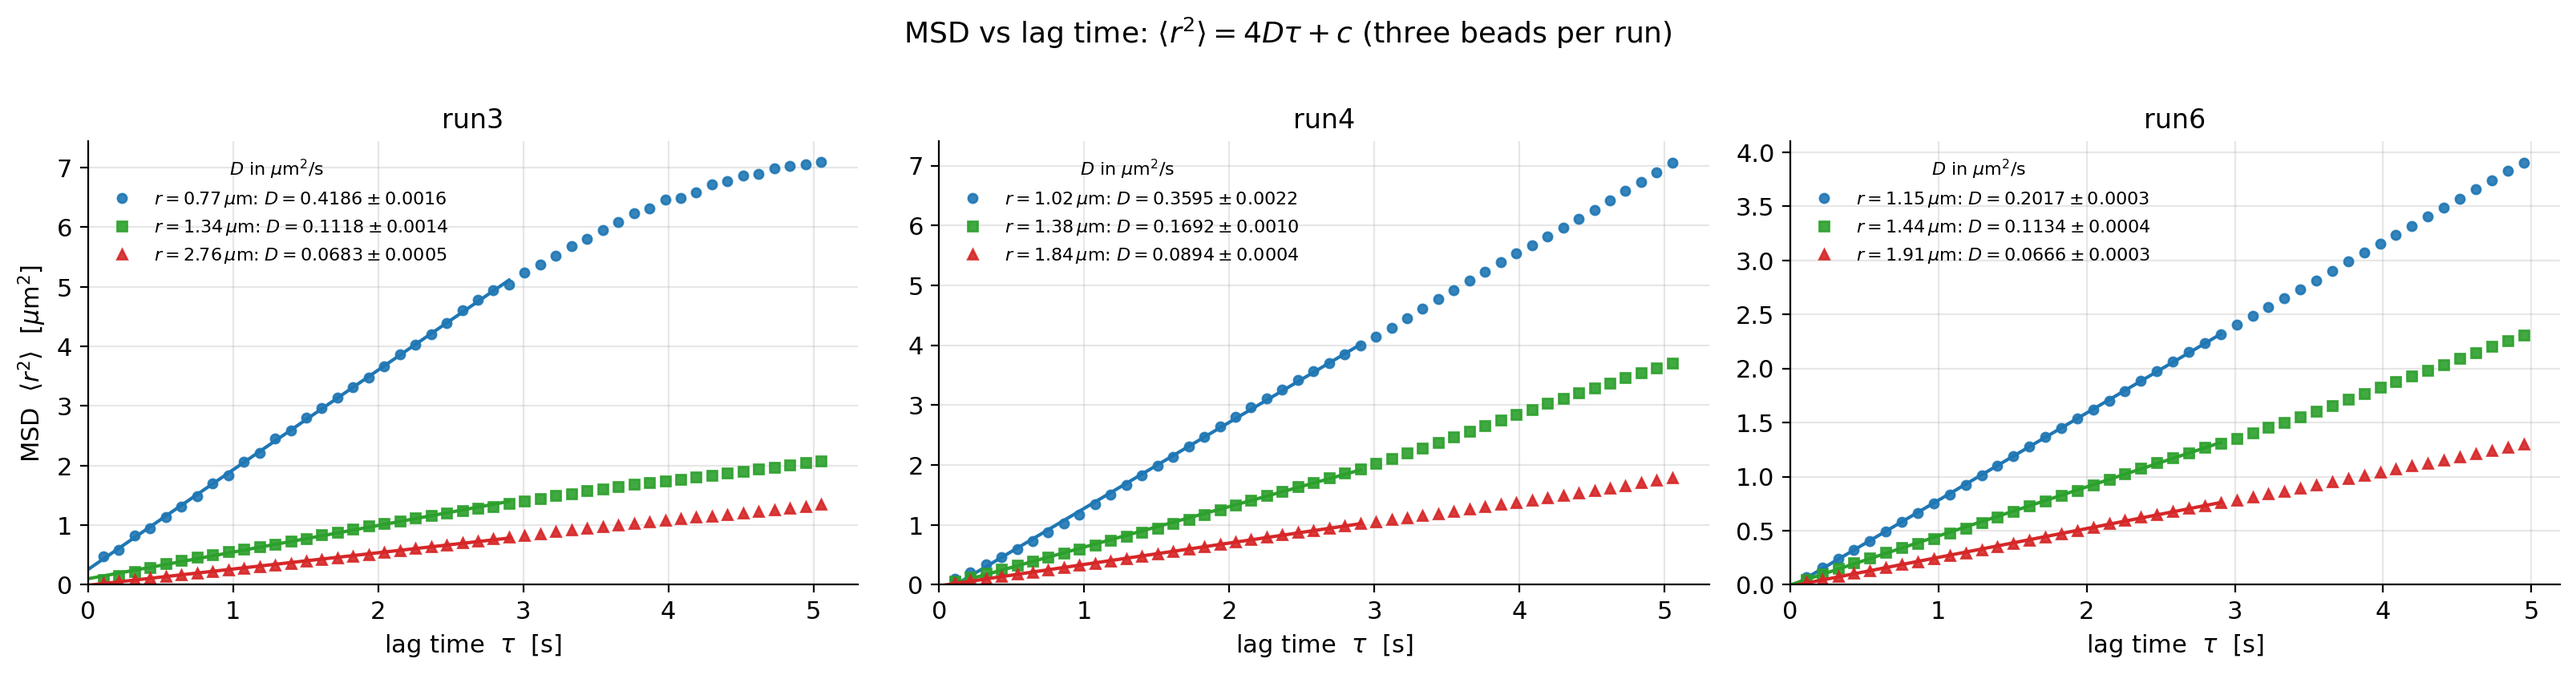
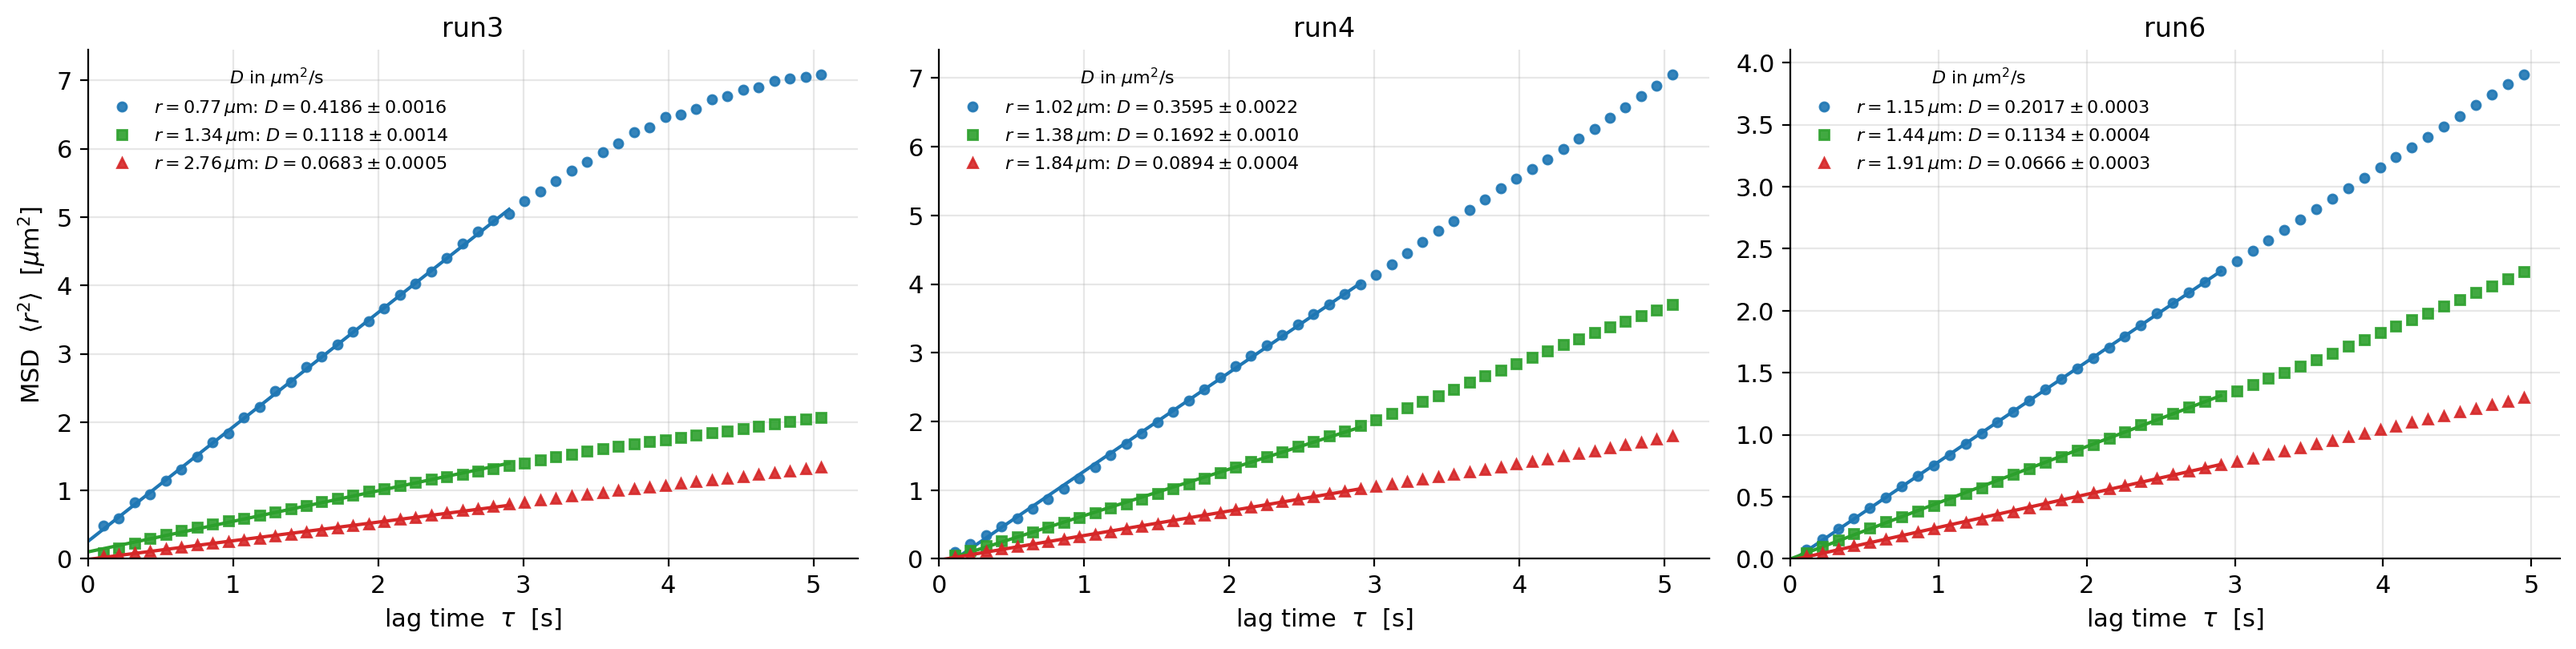
Remove suptitle from plot1 grid (lock design)

diff --git a/experiments/week1-system-calibration/report/plot1_grid.py b/experiments/week1-system-calibration/report/plot1_grid.py
@@ -118,8 +118,6 @@ def main():
     for ax in axes[:, 0]:
         ax.set_ylabel(r"MSD  $\langle r^2\rangle$  [$\mu$m$^2$]")
 
-    fig.suptitle(r"MSD vs lag time: $\langle r^2\rangle = 4D\tau + c$ "
-                 r"(three beads per run)", fontsize=13, y=1.0)
     fig.tight_layout()
 
     tag = "-".join(r.replace("run", "") for r in args.runs)
